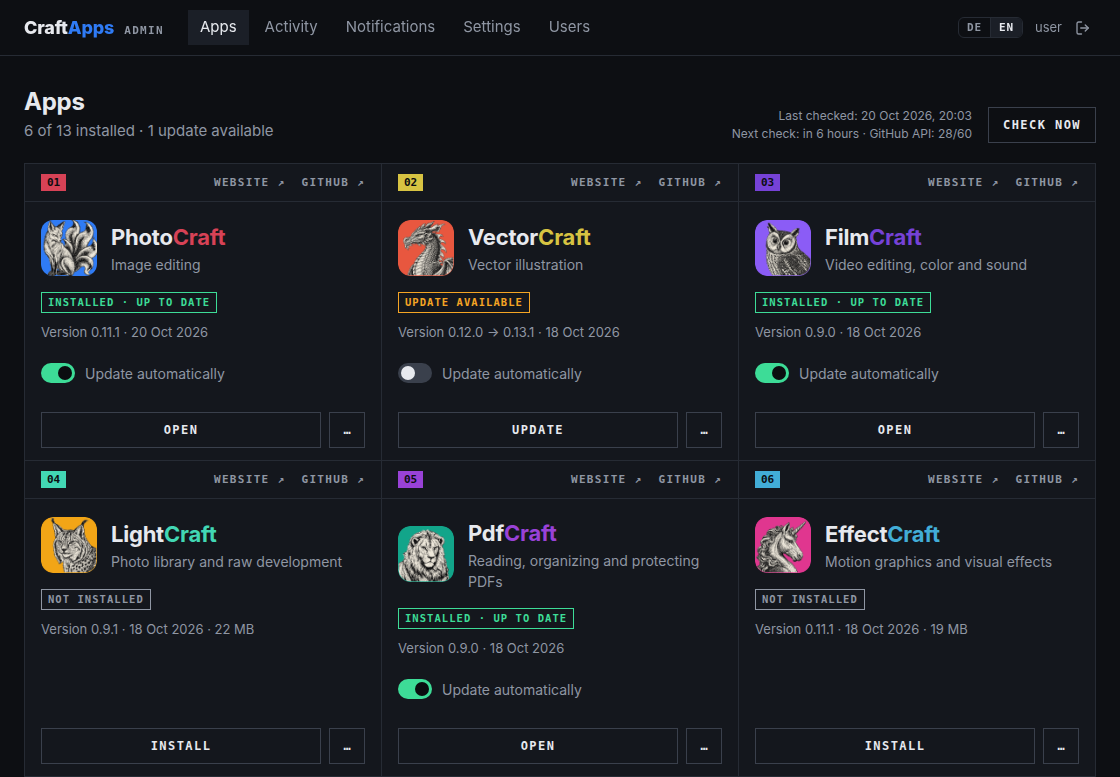
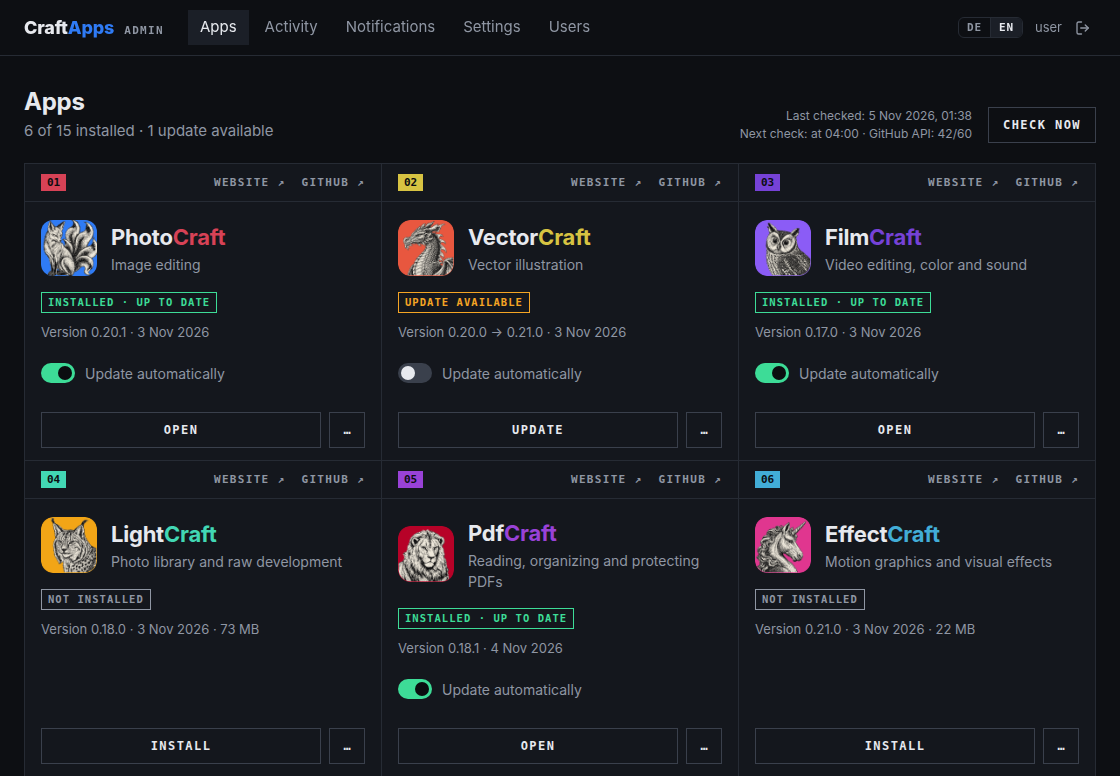
feat(ticket#11): show the next check as a point in time
The apps page now says when the next check runs – "um 04:00 Uhr", "morgen um
04:00 Uhr" or a date – in the browser's time zone instead of "in 2 Stunden".
The tooltip names the full date and the zone. Screenshots of the apps page
and the phone view updated.

diff --git a/admin/src/web/lib/format.ts b/admin/src/web/lib/format.ts
@@ -1,4 +1,4 @@
-import { getLocale } from '../i18n/i18n';
+import { getLocale, t } from '../i18n/i18n';
 
 const DATE: Intl.DateTimeFormatOptions = { day: 'numeric', month: 'short', year: 'numeric' };
 const DATE_TIME: Intl.DateTimeFormatOptions = { ...DATE, hour: '2-digit', minute: '2-digit' };
@@ -8,13 +8,46 @@ export const formatDateTime = (iso: string | null) => (iso ? new Date(iso).toLoc
 export const formatSize = (bytes: number | null) =>
   bytes === null ? '' : `${Math.max(1, Math.round(bytes / 1e6)).toLocaleString(getLocale())} MB`;
 
-/** Relative time in the UI's language, e.g. "in 5 Stunden" or "3 minutes ago" */
-export function formatRelative(iso: string | null): string {
-  if (!iso) return '–';
-  const relative = new Intl.RelativeTimeFormat(getLocale(), { numeric: 'auto' });
-  const minutes = Math.round((new Date(iso).getTime() - Date.now()) / 60_000);
-  if (Math.abs(minutes) < 60) return relative.format(minutes, 'minute');
-  const hours = Math.round(minutes / 60);
-  if (Math.abs(hours) < 24) return relative.format(hours, 'hour');
-  return relative.format(Math.round(hours / 24), 'day');
+const TIME: Intl.DateTimeFormatOptions = { hour: '2-digit', minute: '2-digit' };
+const DAY_MS = 24 * 60 * 60 * 1000;
+
+/** Calendar days from today to the date, in the browser's time zone */
+function daysFromToday(date: Date): number {
+  const midnight = (d: Date) => new Date(d.getFullYear(), d.getMonth(), d.getDate()).getTime();
+  // Rounded: a day with a switch to or from daylight saving time has 23 or 25 hours
+  return Math.round((midnight(date) - midnight(new Date())) / DAY_MS);
 }
+
+/**
+ * Point in time in the browser's time zone and the UI's language, e.g. "um 21:15 Uhr",
+ * "morgen um 04:00 Uhr" or "on Mon 9 Nov at 04:00"
+ */
+export function formatAt(iso: string | null): string {
+  if (!iso) return '–';
+  const date = new Date(iso);
+  const time = date.toLocaleTimeString(getLocale(), TIME);
+  const days = daysFromToday(date);
+  if (days === 0) return t('time.today', { time });
+  if (days === 1) return t('time.tomorrow', { time });
+  const withYear = date.getFullYear() !== new Date().getFullYear();
+  const day = date.toLocaleDateString(getLocale(), {
+    weekday: 'short',
+    day: 'numeric',
+    month: 'short',
+    ...(withYear && { year: 'numeric' }),
+  });
+  return t('time.date', { date: day, time });
+}
+
+/** Date, time and time zone in full – for tooltips, e.g. "Mittwoch, 4. November 2026 um 21:15 MEZ" */
+export const formatFull = (iso: string | null) =>
+  iso
+    ? new Date(iso).toLocaleString(getLocale(), {
+        weekday: 'long',
+        day: 'numeric',
+        month: 'long',
+        year: 'numeric',
+        ...TIME,
+        timeZoneName: 'short',
+      })
+    : '';

diff --git a/admin/src/web/pages/AppsPage/AppsPage.tsx b/admin/src/web/pages/AppsPage/AppsPage.tsx
@@ -2,7 +2,7 @@ import { useCallback, useEffect, useState } from 'react';
 import type { StateView } from '../../../shared/types';
 import { api } from '../../lib/api';
 import { AppCard, type Action } from '../../components/AppCard/AppCard';
-import { formatDateTime, formatRelative } from '../../lib/format';
+import { formatAt, formatDateTime, formatFull } from '../../lib/format';
 import { t, tm } from '../../i18n/i18n';
 
 export function AppsPage() {
@@ -56,7 +56,10 @@ export function AppsPage() {
           <p className="muted small">
             {t('apps.lastCheck', { time: formatDateTime(state.lastCheckAt) })}
             <br />
-            {t('apps.nextCheck', { time: state.checking ? t('apps.checkingNow') : formatRelative(state.nextCheckAt) })}
+            {/* The time in the browser's time zone, the tooltip names date and zone */}
+            <span title={state.checking ? undefined : formatFull(state.nextCheckAt)}>
+              {t('apps.nextCheck', { time: state.checking ? t('apps.checkingNow') : formatAt(state.nextCheckAt) })}
+            </span>
             {github}
           </p>
           <button className="btn" disabled={state.checking} onClick={() => run('POST', '/api/check')}>
